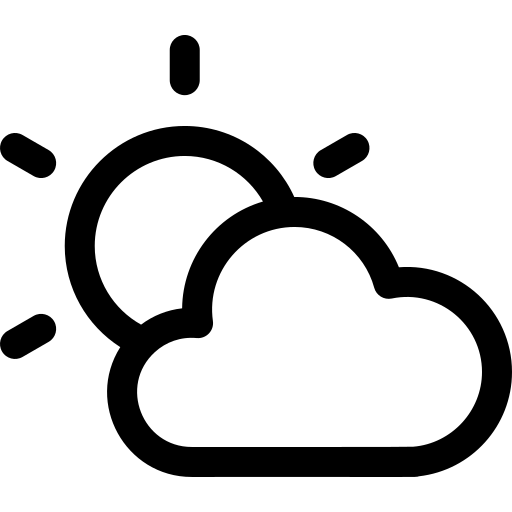
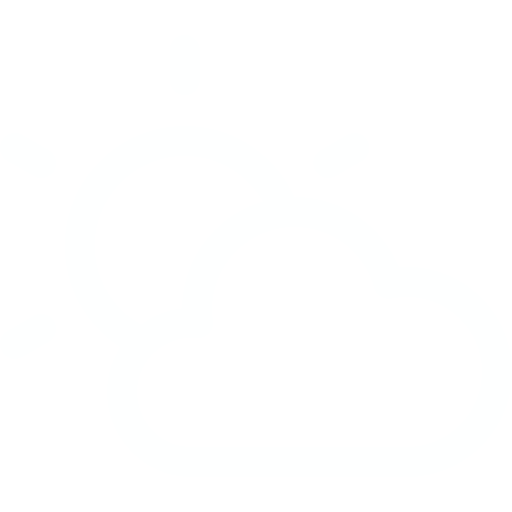
finishing weather app

diff --git a/src/components/Weather.vue b/src/components/Weather.vue
@@ -21,7 +21,34 @@
     <div class="weather-info">
       <div class="temp-info" v-if="isVisible">
         <h1>{{ weather.temperature }}&deg;C</h1>
-        <img src="@/assets/images/cloudy_pink.png" alt="Gambar Awan" width="100px">
+        <span v-if="cloudy_day">
+          <img src="@/assets/images/cloudy.png" alt="Gambar Awan" width="100px" >
+        </span>
+
+        <span v-if="cloudy_night">
+          <img src="@/assets/images/cloudy-night.png" alt="Gambar Awan Malam" width="100px" >
+        </span>
+
+        <span v-if="clear_night">
+          <img src="@/assets/images/night.png" alt="Gambar Malam" width="100px" >
+        </span>
+
+        <span v-if="snowy">
+          <img src="@/assets/images/snow.png" alt="Gambar Salju" width="100px" >
+        </span>
+
+        <span v-if="stormy">
+          <img src="@/assets/images/stormy.png" alt="Gambar Petir" width="100px" >
+        </span>
+
+        <span v-if="sunny">
+          <img src="@/assets/images/sun.png" alt="Gambar Matahari" width="100px" >
+        </span>
+
+        <span v-if="rainy">
+          <img src="@/assets/images/rainy.png" alt="Gambar Hujan" width="100px" >
+        </span>
+        
         <p>{{ weather.description }}</p>
         <h1>{{ weather.cityName }}</h1>
       </div>
@@ -65,6 +92,18 @@ export default {
       // visible
       cityFound: false,
       isVisible: false,
+
+      // weather icon
+      sunny: false,
+      clear_night: false,
+      snowy: false,
+      cloudy_day: false,
+      cloudy_night: false,
+      rainy: false,
+      stormy: false,
+
+      // day or night
+      isDay: false,
 
       citySearch: "",
       weather: {
@@ -121,6 +160,86 @@ export default {
         tempWind = data.wind.speed;
         this.timeUse = 0;
         this.countUpWind(tempWind);
+
+        const timeOfDay = data.weather[0].icon;
+
+        if(timeOfDay.includes('n')){
+          this.isDay = false;
+        }else{
+          this.isDay = true;
+        }
+
+        const mainWeather = data.weather[0].main;
+
+        if(mainWeather.includes('Clouds') && this.isDay){
+          this.sunny = false;
+          this.clear_night = false;
+          this.snowy = false;
+          this.cloudy_day = true;
+          this.cloudy_night = false;
+          this.rainy = false;
+          this.stormy= false;
+        }
+
+        if(mainWeather.includes('Clouds') && !this.isDay){
+          this.sunny = false;
+          this.clear_night = false;
+          this.snowy = false;
+          this.cloudy_day = false;
+          this.cloudy_night = true;
+          this.rainy = false;
+          this.stormy= false;
+        }
+
+        if(mainWeather.includes('Thunderstrom')){
+          this.sunny = false;
+          this.clear_night = false;
+          this.snowy = false;
+          this.cloudy_day = false;
+          this.cloudy_night = false;
+          this.rainy = false;
+          this.stormy= true;
+        }
+
+        if(mainWeather.includes('Snow')){
+          this.sunny = false;
+          this.clear_night = false;
+          this.snowy = true;
+          this.cloudy_day = false;
+          this.cloudy_night = false;
+          this.rainy = false;
+          this.stormy= false;
+        }
+
+        if(mainWeather.includes('Rain')){
+          this.sunny = false;
+          this.clear_night = false;
+          this.snowy = false;
+          this.cloudy_day = false;
+          this.cloudy_night = false;
+          this.rainy = true;
+          this.stormy= false;
+        }
+
+        if(mainWeather.includes('Clear') && this.isDay){
+          this.sunny = true;
+          this.clear_night = false;
+          this.snowy = false;
+          this.cloudy_day = false;
+          this.cloudy_night = false;
+          this.rainy = false;
+          this.stormy= false;
+        }
+
+        if(mainWeather.includes('Clear') && !this.isDay){
+          this.sunny = false;
+          this.clear_night = true;
+          this.snowy = false;
+          this.cloudy_day = false;
+          this.cloudy_night = false;
+          this.rainy = false;
+          this.stormy= false;
+        }
 
         this.isVisible = true;
         this.cityFound = false;
